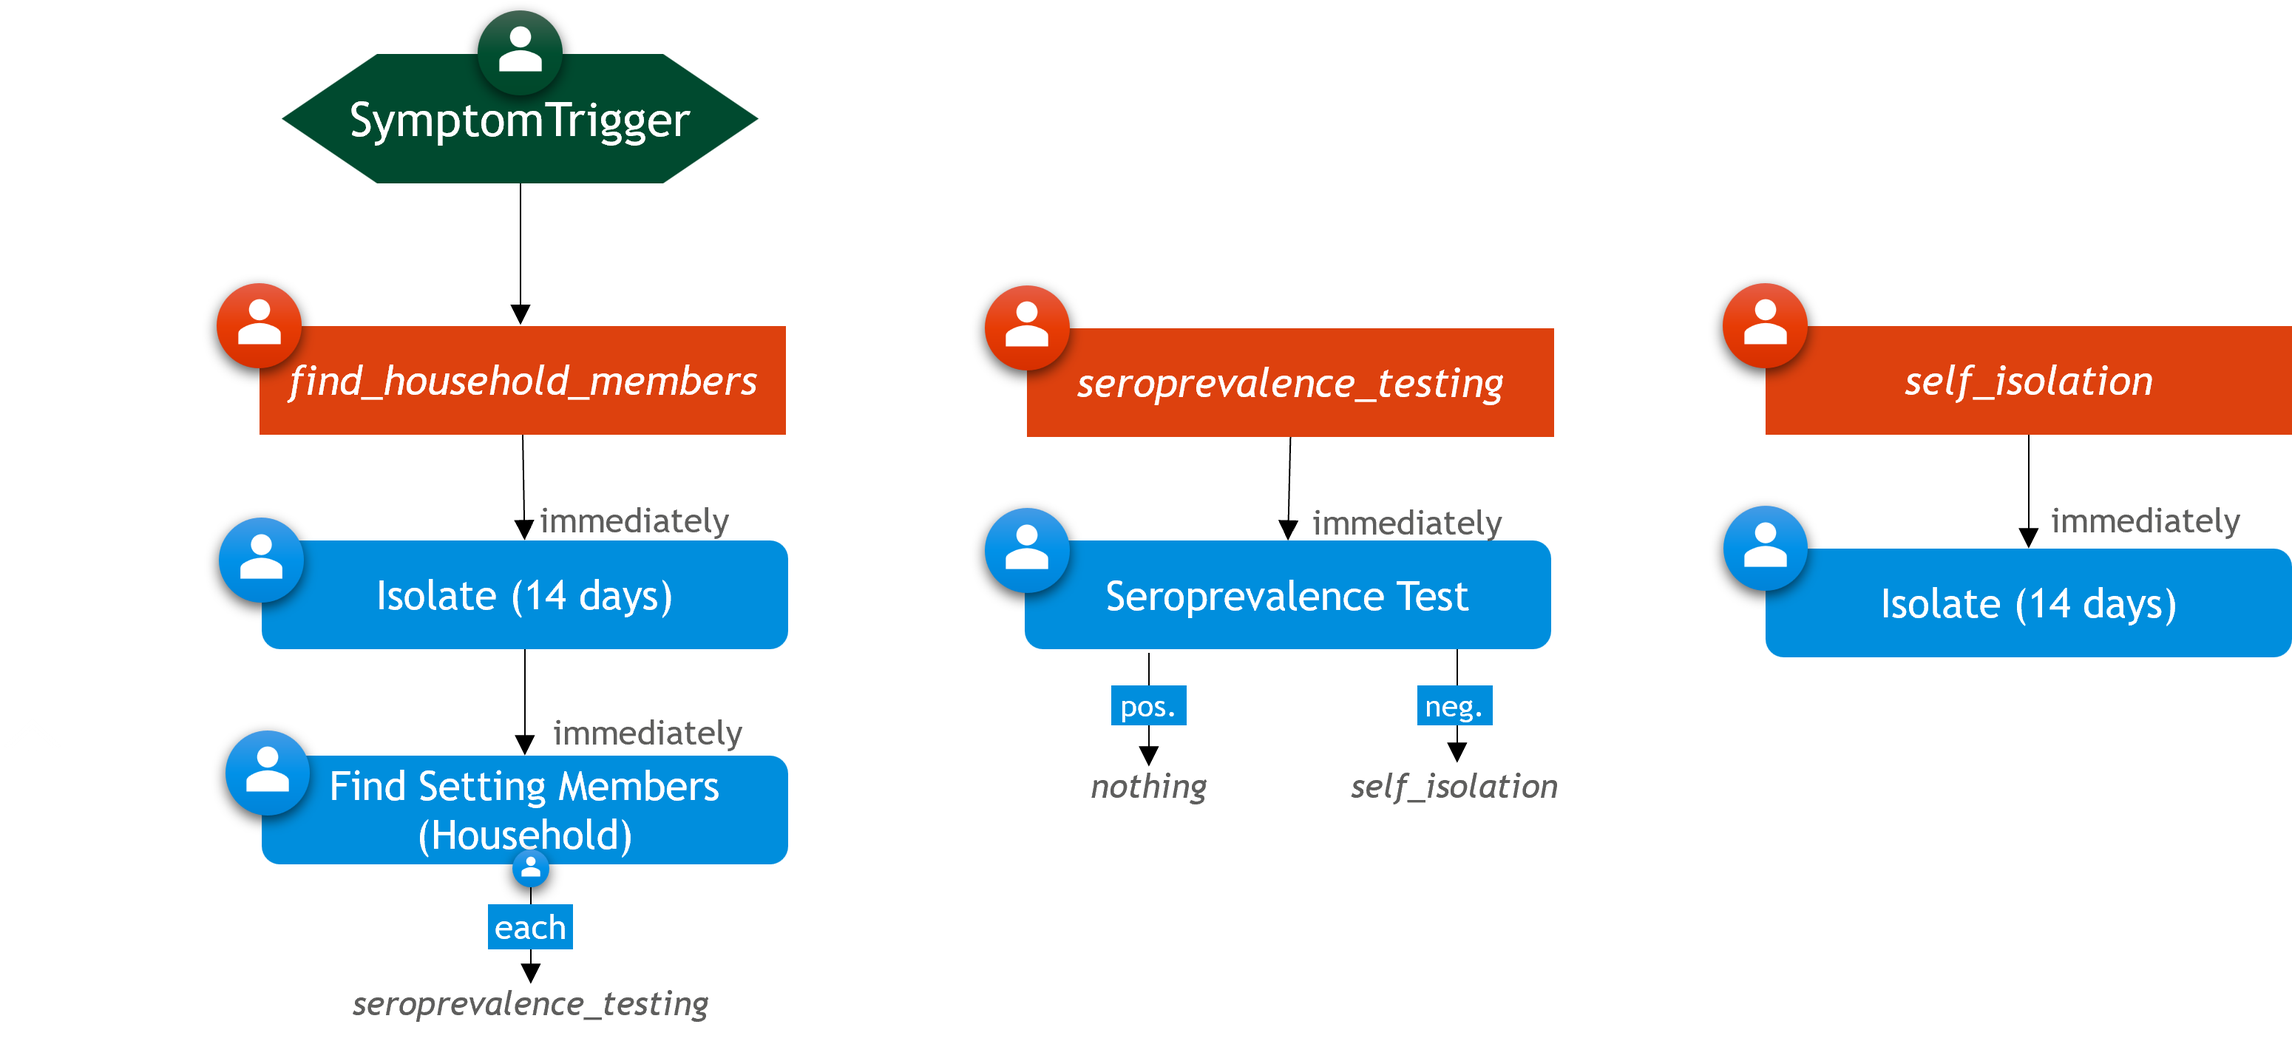
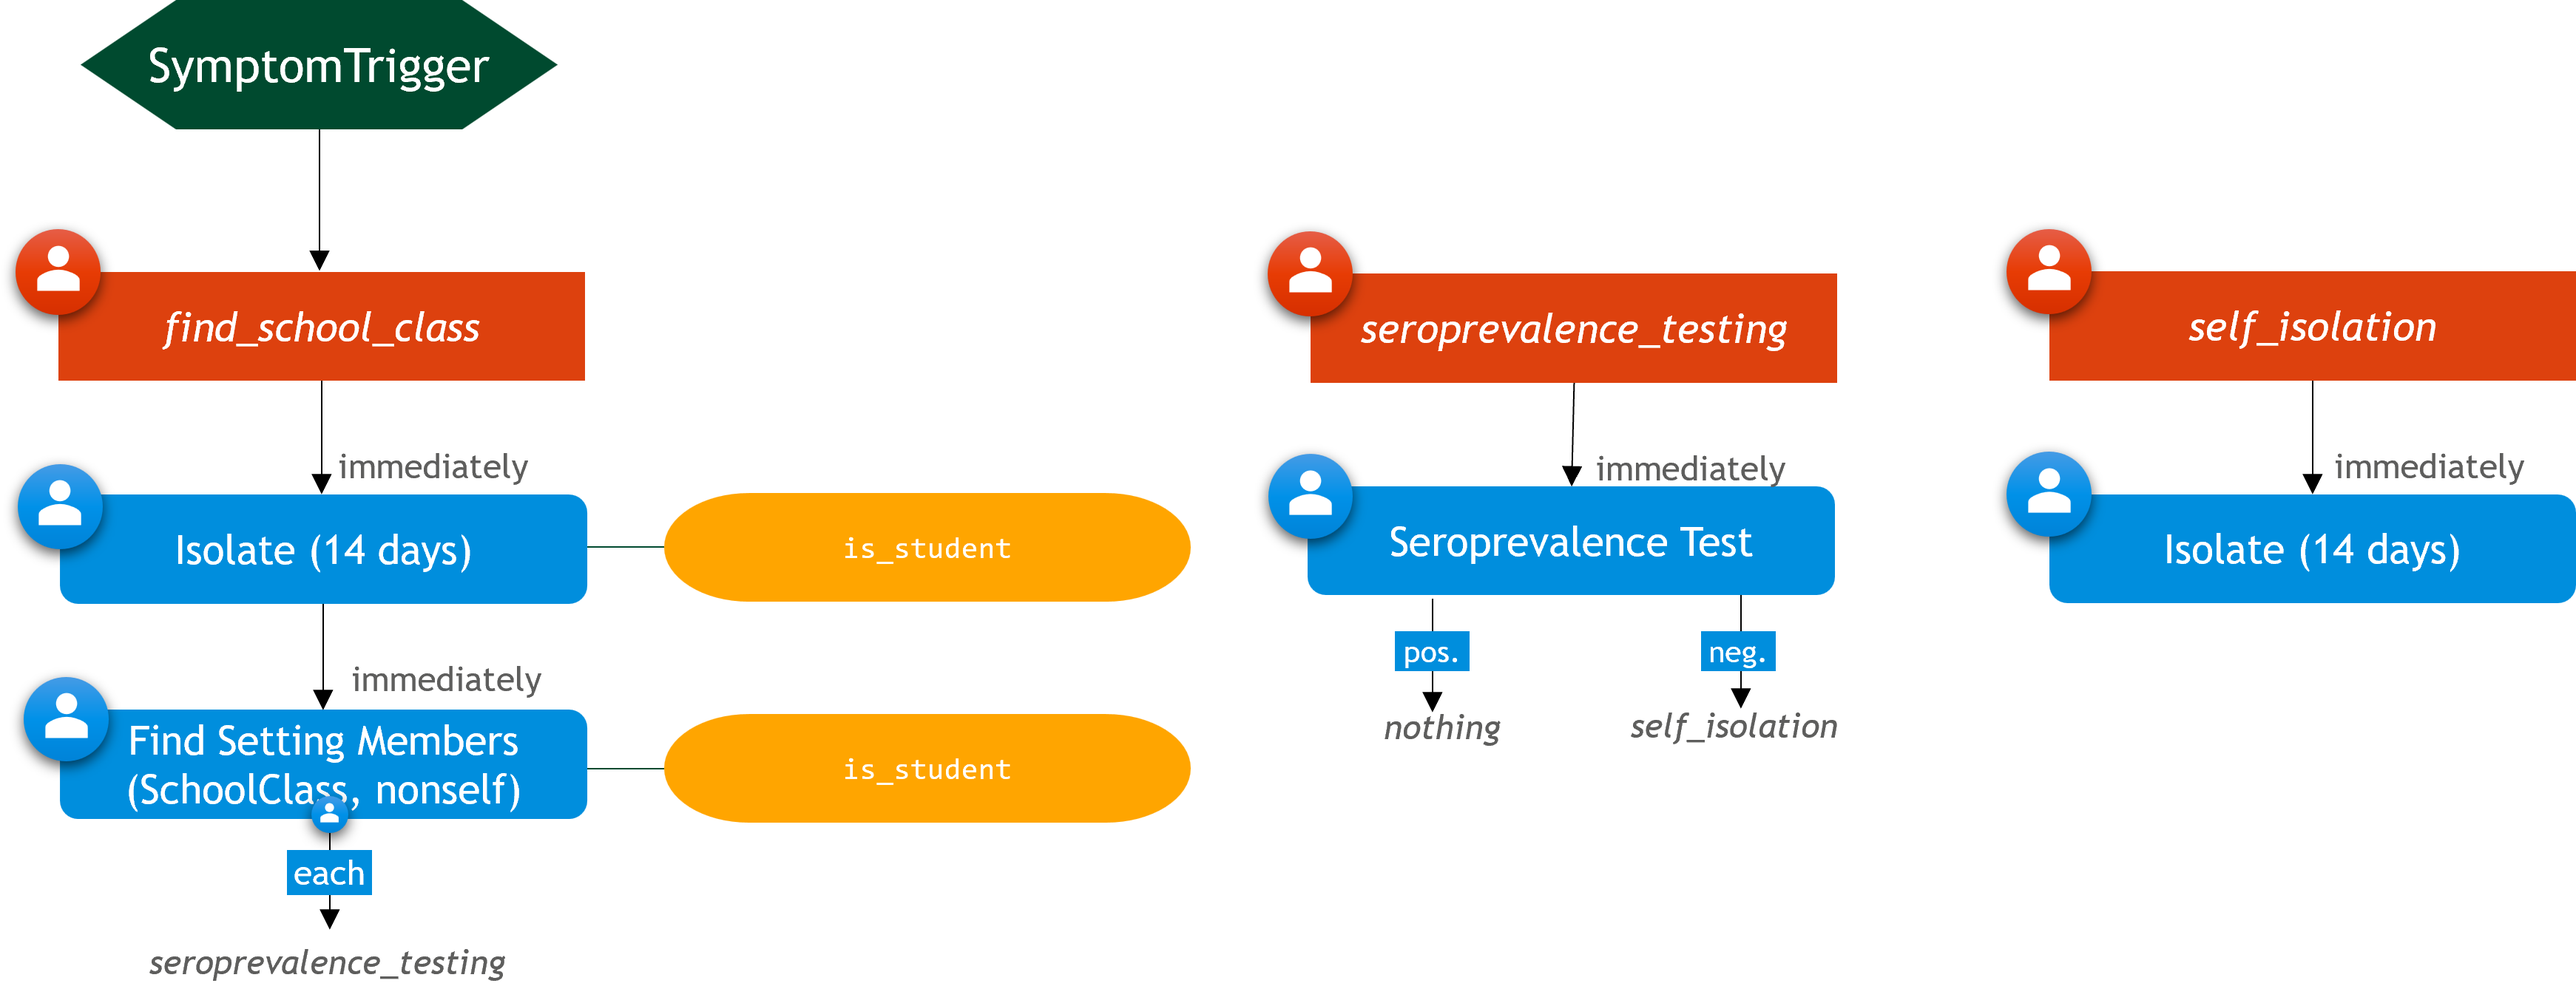
sero-testing schoolclass tutorial

Changed region(s): [[0.0, 0.2167, 0.7123, 0.9904], [0.7432, 0.2167, 1.0, 0.65], [0.031, 0.0, 0.3406, 0.1857]]

diff --git a/docs/src/tut_npi.md b/docs/src/tut_npi.md
@@ -20,7 +20,7 @@ To do so, we set up an `IStrategy` called "self\_isolation" and add an instance 
 
 ```@raw html
 <p align="center">
-    <img src="assets/tutorials/tut_interventions_trism_self_isolation_with_symptoms.png" width="30%"/>
+    <img src="../assets/tutorials/tut_interventions_trism_self_isolation_with_symptoms.png" width="30%"/>
 </p>
 ``` 
 
@@ -76,7 +76,7 @@ In the example below, we pass the `is_student(individual)` function that returns
 
 ```@raw html
 <p align="center">
-    <img src="assets/tutorials/tut_interventions_trism_conditioned_measure_1.png" width="50%"/>
+    <img src="../assets/tutorials/tut_interventions_trism_conditioned_measure_1.png" width="50%"/>
 </p>
 ``` 
 
@@ -121,7 +121,7 @@ Here's an example where people who are older than 50 should be isolated.
 
 ```@raw html
 <p align="center">
-    <img src="assets/tutorials/tut_interventions_trism_conditioned_measure_2.png" width="50%"/>
+    <img src="../assets/tutorials/tut_interventions_trism_conditioned_measure_2.png" width="50%"/>
 </p>
 ``` 
 
@@ -172,7 +172,7 @@ In this is example, we only send people into self-isolation who are living in ho
 
 ```@raw html
 <p align="center">
-    <img src="assets\tutorials\tut_interventions_trism_conditioned_measure_3.png" width="50%"/>
+    <img src="../assets/tutorials/tut_interventions_trism_conditioned_measure_3.png" width="50%"/>
 </p>
 ``` 
 
@@ -228,7 +228,7 @@ This can also be considered a form of contact tracing.
 
 ```@raw html
 <p align="center">
-    <img src="assets/tutorials/tut_interventions_trism_household_isolation.png" width="60%"/>
+    <img src="../assets/tutorials/tut_interventions_trism_household_isolation.png" width="60%"/>
 </p>
 ``` 
 
@@ -332,7 +332,7 @@ A `SymptomTrigger` fires the "testing" strategy once an individual becomes sympt
 
 ```@raw html
 <p align="center">
-    <img src="assets/tutorials/tut_interventions_trism_testing_isolation.png" width="50%"/>
+    <img src="../assets/tutorials/tut_interventions_trism_testing_isolation.png" width="50%"/>
 </p>
 ``` 
 
@@ -401,7 +401,7 @@ In the following scenarios, we compare two scenarios: (1) where individuals get 
 
 ```@raw html
 <p align="center">
-    <img src="assets/tutorials/tut_interventions_trism_delayed_measure.png" width="80%"/>
+    <img src="../assets/tutorials/tut_interventions_trism_delayed_measure.png" width="80%"/>
 </p>
 ``` 
 
@@ -472,7 +472,7 @@ Once an individual experiences symptoms, all members of their household (includi
 
 ```@raw html
 <p align="center">
-    <img src="assets/tutorials/tut_interventions_trism_subpartest.png" width="50%"/>
+    <img src="../assets/tutorials/tut_interventions_trism_subpartest.png" width="50%"/>
 </p>
 ``` 
 
@@ -557,7 +557,7 @@ That's necessary enable the recursive execution of strategies (they have to be "
 
 ```@raw html
 <p align="center">
-    <img src="assets/tutorials/tut_interventions_trism_ghost_epidemic.png" width="100%"/>
+    <img src="../assets/tutorials/tut_interventions_trism_ghost_epidemic.png" width="100%"/>
 </p>
 ``` 
 
@@ -622,7 +622,7 @@ Moreover, the example uses the `Batch` functionality to easily aggregate all sim
 
 ```@raw html
 <p align="center">
-    <img src="assets/tutorials/tut_interventions_trism_varyingtestsensitivity.png" width="50%"/>
+    <img src="../assets/tutorials/tut_interventions_trism_varyingtestsensitivity.png" width="50%"/>
 </p>
 ``` 
 
@@ -686,7 +686,7 @@ However, in the second scenario, only 50 tests can be applied per day.
 
 ```@raw html
 <p align="center">
-    <img src="assets/tutorials/tut_interventions_trism_limited_capacity.png" width="50%"/>
+    <img src="../assets/tutorials/tut_interventions_trism_limited_capacity.png" width="50%"/>
 </p>
 ``` 
 
@@ -774,7 +774,7 @@ We furthermore add a `CustomLogger` to track the number of currently closed scho
 
 ```@raw html
 <p align="center">
-    <img src="assets/tutorials/tut_interventions_trism_pool_testing.png" width="50%"/>
+    <img src="../assets/tutorials/tut_interventions_trism_pool_testing.png" width="50%"/>
 </p>
 ``` 
 
@@ -840,7 +840,7 @@ We neglect the fact that this will cause some tests to be performed on day 11.
 
 ```@raw html
 <p align="center">
-    <img src="assets/tutorials/tut_interventions_trism_recurrent_testing.png" width="80%"/>
+    <img src="../assets/tutorials/tut_interventions_trism_recurrent_testing.png" width="80%"/>
 </p>
 ``` 
 
@@ -908,86 +908,105 @@ It is possible to specify that a test should not lead to a new case being report
 Please look up the [Test](@ref Test) measure's parameterization options.
 The next tutorial considers two test types where one of them does not lead to a reported case (self-applied test).
 
-## Seroprevalence Testing
+## Seroprevalence Testing in School Class Isolation
 
-In this tutorial, we demonstrate how to integrate **seroprevalence testing** into a household isolation strategy using GEMS.
+In this tutorial, we demonstrate how to integrate **seroprevalence testing** into a symptom-triggered isolation strategy for **school classes** using GEMS.
 
-This scenario builds on the idea of symptom-triggered household isolation, but adds a twist: 
-Household members only go into isolation if they test negative for antibodies. The assumption is that people who already have antibodies (i.e., tested seropositive) are less likely to be at risk and therefore exempt from isolation.
-In the standard simulation setup, seropositive individuals are assumed to be immune and cannot be reinfected, which justifies their exclusion from isolation measures.
-We are comparing the results with the previous household isolation scenario.
+This example builds on a similar idea used in the household isolation scenario but applies it to school classes. When a student develops symptoms, the rest of the class is isolated. However, we now use seroprevalence testing to avoid unnecessary isolations.
 
-**Scenario Summary**:
+Instead of automatically isolating all classmates, we test them for antibodies. Only students who **do not have antibodies** (i.e., test seronegative) are isolated. The assumption is that **seropositive individuals are immune** and therefore don't need to be isolated.
+
+We compare this targeted approach with a standard school class isolation strategy in which all classmates are isolated for 14 days whenever someone develops symptoms.
+
+---
+
+**Scenario Summary**
 
 ```@raw html
 <p align="center">
-    <img src="assets/tutorials/tut_interventions_trism_seroprevalence_testing.png" width="80%"/>
+    <img src="../assets/tutorials/tut_interventions_trism_seroprevalencetesting.png" />
 </p>
-```
+``` 
 
-- When an individual becomes symptomatic, they are immediately isolated for 14 days.
-- All **other members** of their household are given a **seroprevalence test**.
-- If a household member **tests negative (no antibodies)**, they are also isolated for 14 days.
-- If a household member **tests positive (has antibodies)**, they are **not isolated**.
-- The seroprevalence tests are "perfect", i.e. 100% sensitivity & specificity.
+- **Baseline: School Class Isolation**
+  - When a student shows symptoms, they and all classmates are isolated for 14 days.
+- **Seroprevalence Testing Scenario**
+  - When a student shows symptoms:
+    - They isolate for 14 days.
+    - All classmates are tested for antibodies.
+    - Only students who test **negative** are isolated.
+    - Students who test **positive** (i.e., immune) are **not isolated**.
+  - The tests are assumed to be perfect (100% sensitivity and specificity).
+
+---
+
 
 ```julia
 using GEMS
 
-# Create a simulation
-#We set the average household size to 4 to better observe its effect
-sim = Simulation(label = "Seroprevalence Testing", avg_household_size=4, transmission_rate = 0.4)
-
-# Define the seroprevalence test (defaults to 100% sensitivity and specificity)
-sero_test = SeroprevalenceTestType("Seroprevalence Test", pathogen(sim), sim)
-
-# Define a self-isolation strategy (used for both index case and seronegative contacts)
-isolation = IStrategy("Isolation", sim)
-add_measure!(isolation, SelfIsolation(14))
-
-# Define a testing strategy using the seroprevalence test
-# Household members are only isolated if they test NEGATIVE (no antibodies)
-testing = IStrategy("Seroprevalence Screening", sim)
-add_measure!(testing, Test("Sero Test", sero_test, negative_followup = isolation))
-
-# Define strategy to identify household members of the symptomatic individual
-trace_household = IStrategy("Household Tracing", sim)
-add_measure!(trace_household, FindSettingMembers(Household, testing, nonself = true))
-# The symptomatic individual isolates immediately
-add_measure!(trace_household, SelfIsolation(14))
-
-# Trigger the household tracing strategy when an individual develops symptoms
-trigger = SymptomTrigger(trace_household)
-add_symptom_trigger!(sim, trigger)
-
-# the household isolation scenario to compare the results with
-household_isolation = Simulation(label = "Household Isolation", avg_household_size=4, transmission_rate = 0.4)
-self_isolation = IStrategy("Self Isolation", household_isolation)
+# SCENARIO 1: simulation with 14-day isolation for all individuals in the schoolclass
+isolation = Simulation(label="isolation")
+self_isolation = IStrategy("Self Isolation", isolation)
 add_measure!(self_isolation, SelfIsolation(14))
-find_household_members = IStrategy("Find Household Members", household_isolation)
-add_measure!(find_household_members, FindSettingMembers(Household, self_isolation))
-trigger = SymptomTrigger(find_household_members)
-add_symptom_trigger!(household_isolation, trigger)
 
-# Run the simulations
-run!(sim)
-run!(household_isolation)
+# identify list of students in class
+find_class_members = IStrategy("Find Schoolclass Members", isolation)
+add_measure!(find_class_members, FindSettingMembers(SchoolClass, self_isolation), condition=is_student)
 
-rd_s = ResultData(sim)
-rd_i = ResultData(household_isolation)
+# trigger "schoolclass tracing"
+trigger = SymptomTrigger(find_class_members)
+add_symptom_trigger!(isolation, trigger)
+
+# SCENARIO 2: here all students get a test and only go into isolation if it is negative
+seroprevalence_testing = Simulation(label="seroprevalence_testing")
+
+# define the test type
+seroprevalence_test = SeroprevalenceTestType("Seroprevalence Test", pathogen(seroprevalence_testing), seroprevalence_testing)
+
+# isolation strategy
+self_isolation = IStrategy("Self Isolation", seroprevalence_testing)
+add_measure!(self_isolation, SelfIsolation(14))
+
+# define testing strategy that triggers self isolation
+testing = IStrategy("Testing", seroprevalence_testing)
+add_measure!(testing, GEMS.Test("Test", seroprevalence_test, negative_followup=self_isolation), condition = is_student)
+
+find_class_members = IStrategy("Find Class Members", seroprevalence_testing)
+add_measure!(find_class_members, FindSettingMembers(Household, testing, nonself=true), condition = is_student)
+
+# students with symptoms go in isolation anyway
+add_measure!(find_class_members, SelfIsolation(14), condition=is_student)
+
+# trigger "schoolclass tracing"
+trigger = SymptomTrigger(find_class_members)
+add_symptom_trigger!(seroprevalence_testing, trigger)
+
+# run both scenarios
+run!(isolation)
+run!(seroprevalence_testing)
+
+# get the results
+rd_i = ResultData(isolation)
+rd_s = ResultData(seroprevalence_testing)
 
 # Visualize the results
-p=gemsplot([rd_s, rd_i], type = (:TickCases, :CumulativeIsolations))
+gemsplot([rd_s, rd_i], type = (:TickCases, :CumulativeIsolations))
 ```
 
 **Plot**
 
 ```@raw html
 <p align="center">
-    <img src="../assets/tutorials/tut_interventions_seroprevalencetesting.png" width="80%"/>
+    <img src="../assets/tutorials/tut_interventions_seroprevalence_testing.png" width="80%"/>
 </p>
 ``` 
-The results show that both scenarios lead to a similar number of cases, but the seroprevalence testing scenario results in fewer people being isolated. This means we can reduce unnecessary isolations without increasing the spread of infection.
+
+**Results and Interpretation**
+
+Both scenarios result in similar numbers of cases, meaning the spread of infection is effectively controlled in both.  
+However, the seroprevalence testing scenario leads to significantly fewer isolations.
+This demonstrates that targeted testing can avoid unnecessary isolation for immune individuals without increasing transmission risk.
+
 
 ## Multiple Test Types
 
